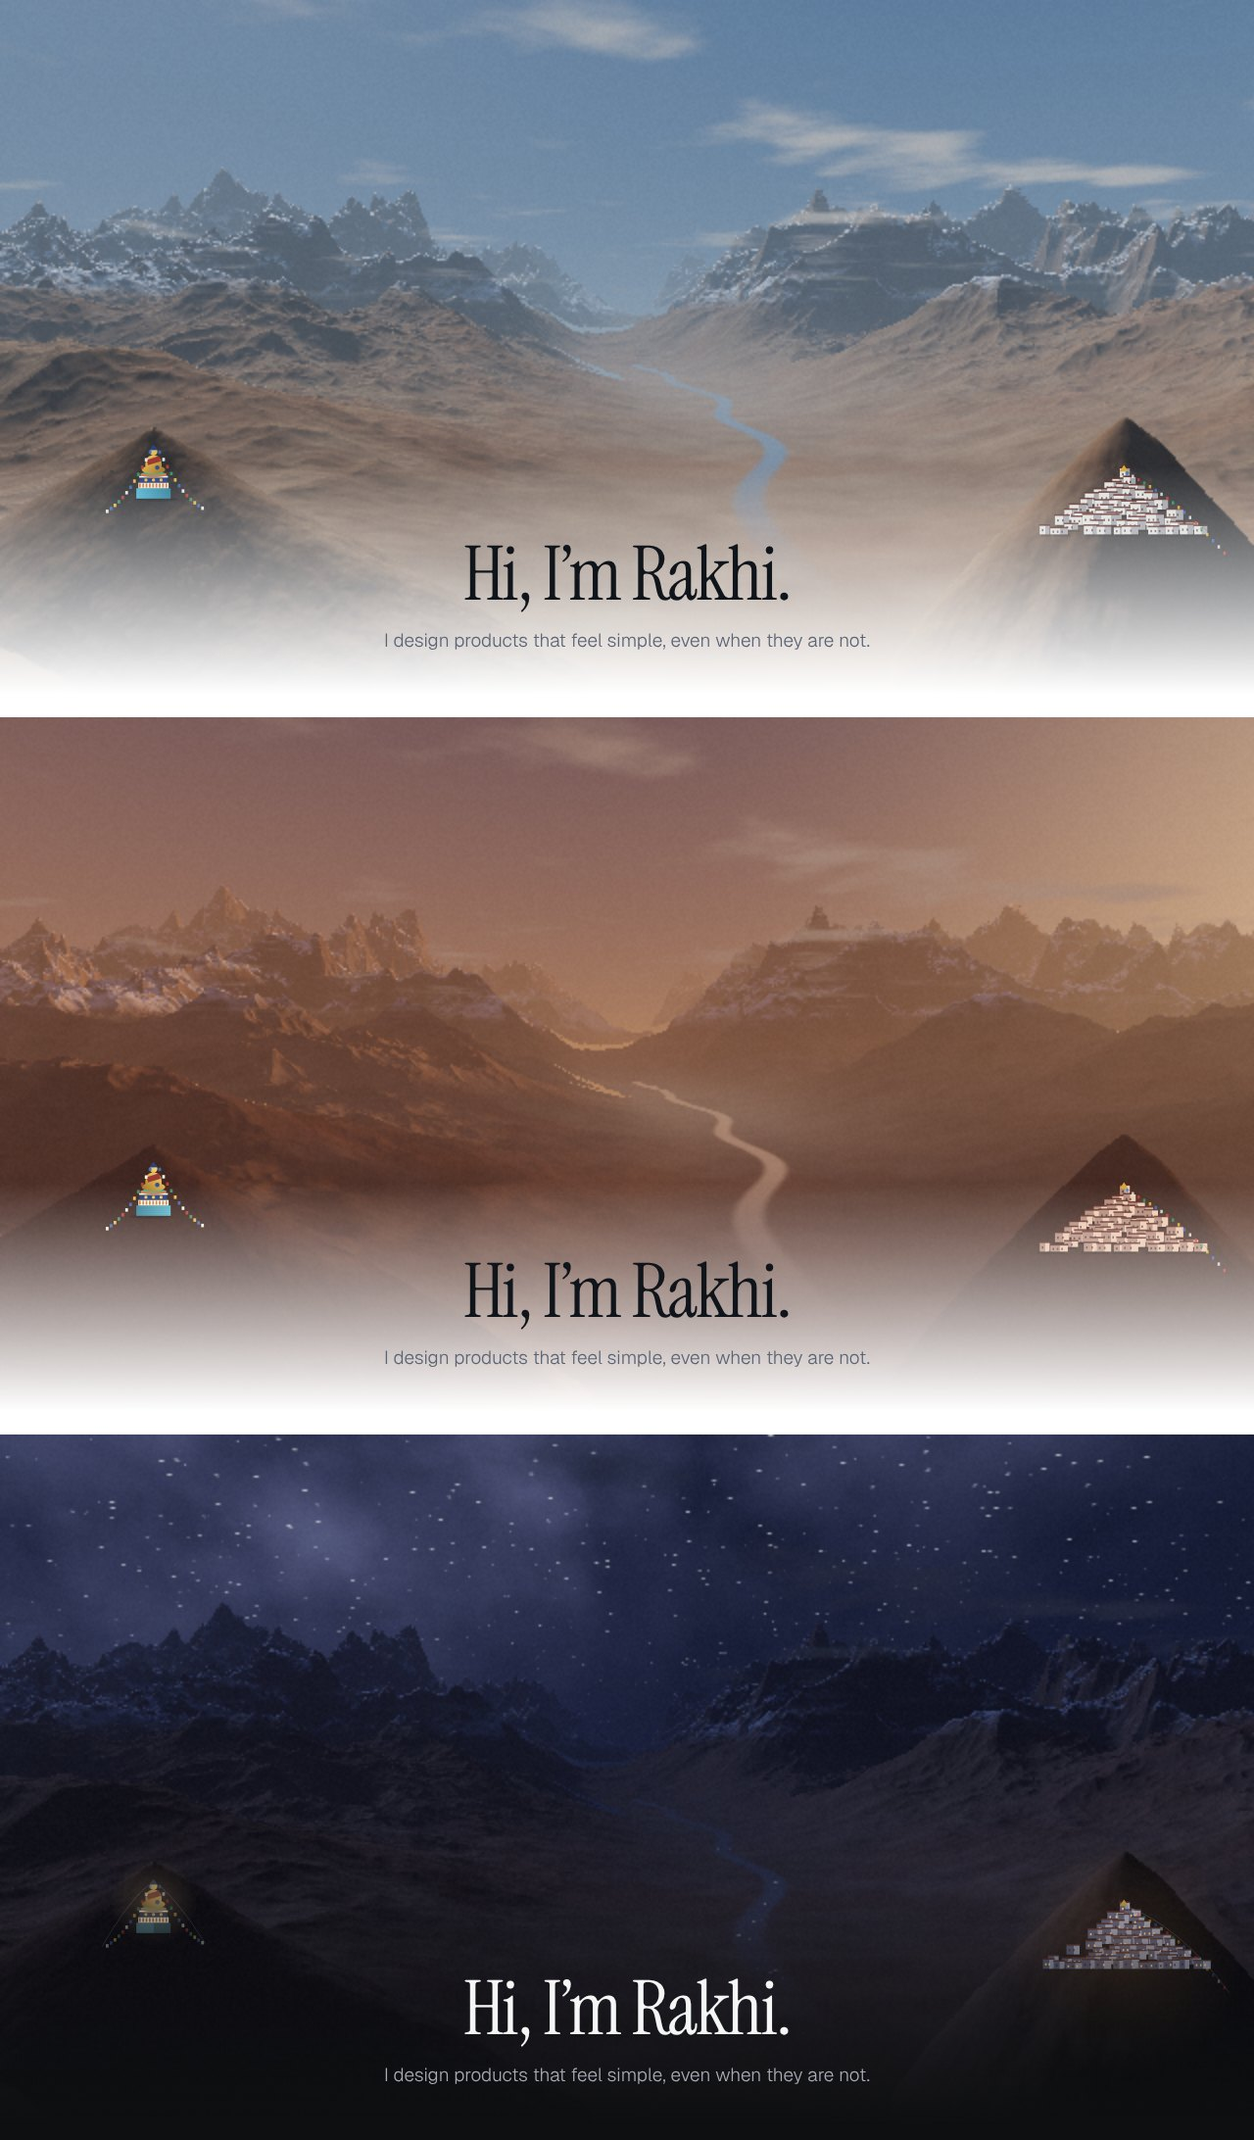
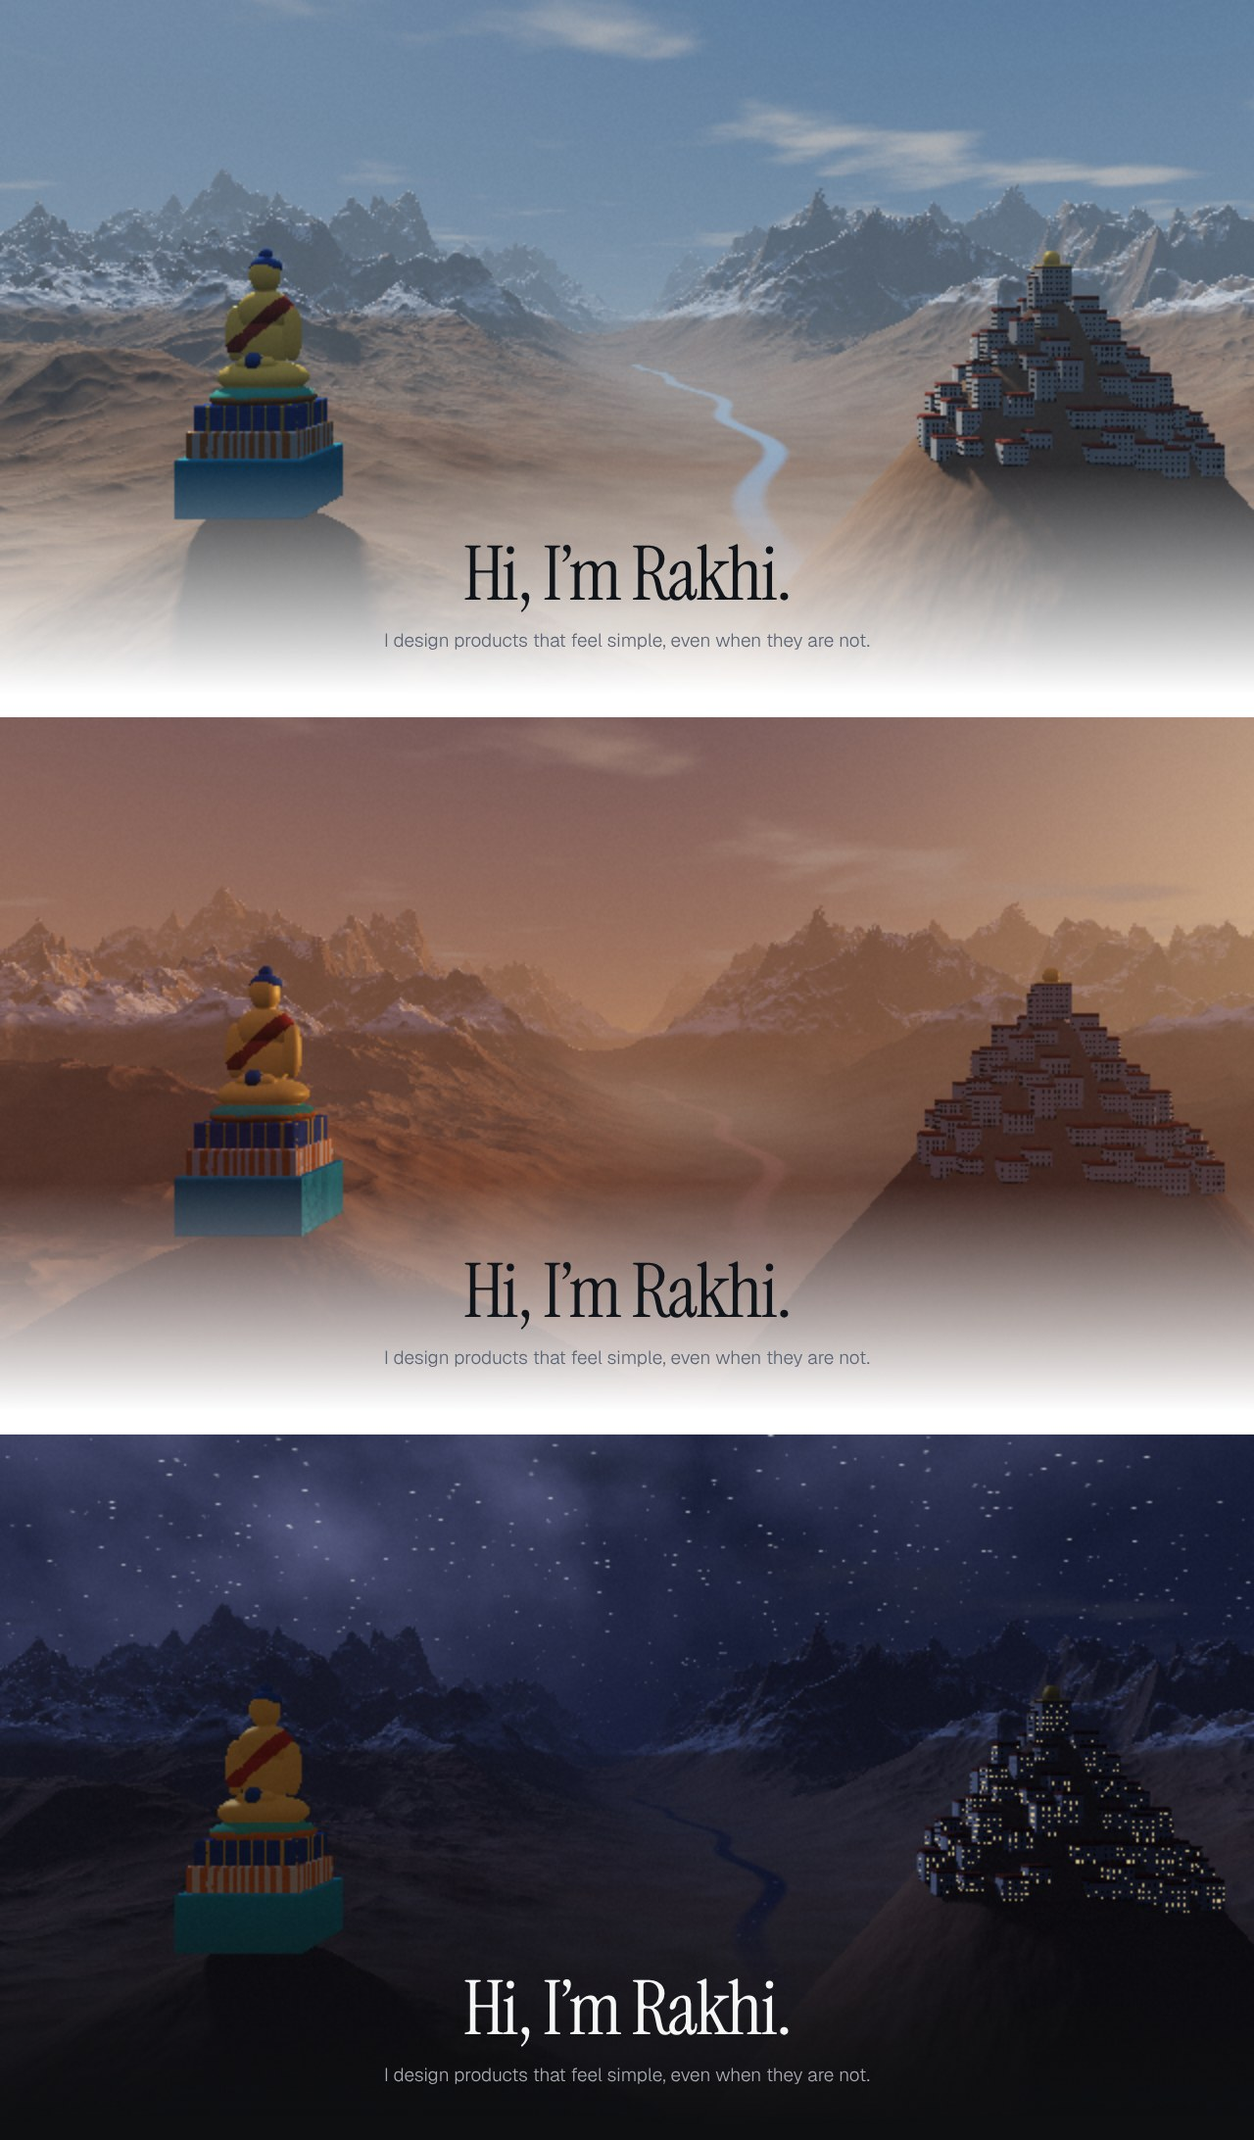
Render Key Monastery and Buddha statue in 3D within the realistic hero prototype
Claude-Session: https://claude.ai/code/session_019dQZjHybN6jsJmDi2oqjqo

diff --git a/rakhi-revamp/previews/realistic-hero-prototype.html b/rakhi-revamp/previews/realistic-hero-prototype.html
@@ -13,39 +13,83 @@ p{margin:14px auto 0;max-width:720px;font:300 19px/1.6 Geist;color:#5B6474}.nigh
 <div class="intro"><h1>Hi, I’m Rakhi.</h1><p>I design products that feel simple, even when they are not.</p></div></div>
 <script id="fs" type="x-shader">
 precision highp float;
-uniform vec2 R; uniform float T; uniform float HR; uniform float NOLM;
+uniform vec2 R; uniform float T; uniform float HR;
 float h21(vec2 p){p=fract(p*vec2(123.34,456.21));p+=dot(p,p+45.32);return fract(p.x*p.y);}
 float n2(vec2 p){vec2 i=floor(p),f=fract(p);vec2 u=f*f*(3.-2.*f);
  return mix(mix(h21(i),h21(i+vec2(1,0)),u.x),mix(h21(i+vec2(0,1)),h21(i+vec2(1,1)),u.x),u.y);}
-float fbm(vec2 p){float a=.5,s=0.;mat2 m=mat2(1.6,1.2,-1.2,1.6);for(int i=0;i<6;i++){s+=a*n2(p);p=m*p;a*=.5;}return s;}
+float fbm(vec2 p){float a=.5,s=0.;mat2 m=mat2(1.6,1.2,-1.2,1.6);for(int i=0;i<5;i++){s+=a*n2(p);p=m*p;a*=.5;}return s;}
 float ridged(vec2 p){float a=.5,s=0.,w=1.;mat2 m=mat2(1.6,1.2,-1.2,1.6);for(int i=0;i<7;i++){float n=1.-abs(n2(p)*2.-1.);n*=n;s+=n*a*w;w=clamp(n*1.6,0.,1.);p=m*p;a*=.5;}return s;}
+const vec2 MC=vec2(1.05,.2); const float MTOP=1.22;      // Key Monastery hill
+const vec3 SP=vec3(-.70,.80,-.30); const float K=.95;                       // statue base
+float coneH(vec2 p){vec2 q=p-MC;return MTOP-1.25*pow(length(q*vec2(1.,1.15)),1.05)+.04*fbm(p*7.);}
 float terrain(vec2 p){
  float rc=0.9*sin(p.y*.18)+.4*sin(p.y*.07+1.);
  float d=abs(p.x-rc);
  float valley=smoothstep(.6,5.5,d);
  float far=smoothstep(3.,26.,p.y);
- float m=ridged(p*.22+vec2(3.1,1.7));
  float h=.02+.35*fbm(p*.6)*smoothstep(.3,2.5,d);
- h+=valley*(1.2+3.6*far)*m;
- h+=far*far*2.2*ridged(p*.09+vec2(7.,2.));
- vec2 q=p-vec2(1.55,.75); float cone=NOLM>0.5?-9.:.86-1.25*pow(length(q*vec2(1.,1.25)),1.15)+.10*fbm(p*3.5)-.05; h=max(h,cone);
- vec2 l=p-vec2(-1.45,.7); float lr=NOLM>0.5?-9.:.80-.75*length(l*vec2(.8,1.3))+.05*fbm(p*5.); h=max(h,lr);
+ if(p.y>-1.){h+=valley*(1.2+3.6*far)*ridged(p*.22+vec2(3.1,1.7));h+=far*far*2.2*ridged(p*.09+vec2(7.,2.));}
+ h=max(h,coneH(p));
+ vec2 l=p-SP.xz; h=max(h,SP.y-.015-.7*pow(length(l*vec2(.8,1.2)),1.25)+.04*fbm(p*6.));
  return h;}
-vec3 sunDir(){float a=(HR-6.)/12.*3.14159; if(HR<6.||HR>=18.) a=mod(HR-18.+24.,24.)/12.*3.14159; return normalize(vec3(-cos(a)*.9,max(sin(a),.02)*.75+.02,.6));}
+float sdBox(vec3 p,vec3 b){vec3 q=abs(p)-b;return length(max(q,0.))+min(max(q.x,max(q.y,q.z)),0.);}
+float sdEll(vec3 p,vec3 r){float k0=length(p/r);float k1=length(p/(r*r));return k0*(k0-1.)/k1;}
+// returns distance; m = material id
+float monastery(vec3 p,out float m,out vec3 cellInfo){
+ m=0.;cellInfo=vec3(0.);
+ vec2 q=p.xz-MC; float rr=length(q);
+ if(rr>.5||p.y<.7||p.y>MTOP+.15) return max(rr-.46,.03);
+ float c=.055; vec2 cid=floor(p.xz/c); float best=1e3;
+ for(int j=-1;j<=1;j++)for(int i=-1;i<=1;i++){
+  vec2 id=cid+vec2(i,j); vec2 cc=(id+.5)*c; float hs=h21(id);
+  float g=coneH(cc); vec2 cq=cc-MC;
+  if(g<.82||cq.y>.06||hs<.1) continue;
+  vec3 hb=vec3(.019+.008*h21(id+7.),.018+.022*h21(id+3.),.02);
+  vec3 ctr=vec3(cc.x+(hs-.5)*.02,g+hb.y*.8,cc.y);
+  float d=sdBox(p-ctr,hb);
+  if(d<best){best=d;m=1.;cellInfo=vec3(id,ctr.y+hb.y);}
+ }
+ // golden roof at the summit
+ float top=min(sdBox(p-vec3(MC.x,MTOP+.04,MC.y-.02),vec3(.035,.035,.03)), sdEll(p-vec3(MC.x,MTOP+.09,MC.y-.02),vec3(.018,.022,.018)));
+ if(top<best){best=top;m=p.y>MTOP+.072?2.:1.;cellInfo=vec3(9.,9.,MTOP+.075);}
+ return best;}
+float statue(vec3 p,out float m){
+ vec3 q=(p-SP)/K; m=3.; float d=sdBox(q-vec3(0,.055,0),vec3(.12,.055,.12));
+ float t1=sdBox(q-vec3(0,.135,0),vec3(.105,.026,.105)); if(t1<d){d=t1;m=4.;}
+ float t2=sdBox(q-vec3(0,.185,0),vec3(.095,.025,.095)); if(t2<d){d=t2;m=5.;}
+ float lo=sdEll(q-vec3(0,.222,0),vec3(.10,.026,.10)); if(lo<d){d=lo;m=6.;}
+ float g=sdEll(q-vec3(0,.262,.0),vec3(.088,.034,.07));                       // crossed legs
+ g=min(g,sdEll(q-vec3(0,.33,.008),vec3(.047,.062,.036)));                     // belly
+ g=min(g,sdEll(q-vec3(0,.395,.01),vec3(.056,.042,.036)));                     // chest/shoulders
+ g=min(g,sdEll(vec3(abs(q.x),q.y,q.z)-vec3(.058,.35,.0),vec3(.017,.055,.02))); // arms
+ g=min(g,sdEll(q-vec3(0,.29,-.035),vec3(.04,.016,.022)));                     // hands in lap
+ g=min(g,sdEll(q-vec3(0,.44,.01),vec3(.017,.02,.017)));                       // neck
+ g=min(g,sdEll(q-vec3(0,.468,.006),vec3(.029,.034,.03)));                     // head
+ if(g<d){d=g;m=7.;}
+ float hr=sdEll(q-vec3(0,.484,.012),vec3(.03,.022,.03)); if(hr<d&&q.y>.482){d=hr;m=8.;}
+ float us=length(q-vec3(0,.51,.012))-.012; if(us<d){d=us;m=8.;}
+ float bw=length(q-vec3(0,.296,-.05))-.016; if(bw<d){d=bw;m=8.;}
+ return d*K;}
+float map(vec3 p,out float m,out vec3 ci){
+ float dt=(p.y-terrain(p.xz))*.5; m=0.;
+ float mm; vec3 c2; float dm=monastery(p,mm,c2); if(dm<dt){dt=dm;m=mm;ci=c2;}
+ float ms; float ds=statue(p,ms); if(ds<dt){dt=ds;m=ms;}
+ return dt;}
 bool isNight(){return HR<6.||HR>=18.;}
+vec3 sunDir(){float a=(HR-6.)/12.*3.14159; if(isNight()) a=mod(HR-18.+24.,24.)/12.*3.14159; return normalize(vec3(-cos(a)*.9,max(sin(a),.02)*.75+.02,.6));}
 vec3 skyCol(vec3 rd,vec3 sd){
  float e=sin(clamp((isNight()?mod(HR-18.+24.,24.):HR-6.)/12.,0.,1.)*3.14159);
  float day=isNight()?0.:smoothstep(.0,.35,e);
  float gold=isNight()?0.:(1.-smoothstep(.05,.45,e));
  vec3 zen=mix(vec3(.02,.03,.09),vec3(.10,.30,.62),day); zen=mix(zen,vec3(.16,.18,.38),gold*.6);
  vec3 hor=mix(vec3(.08,.10,.20),vec3(.62,.76,.90),day); hor=mix(hor,vec3(1.,.58,.36),gold);
- float y=clamp(rd.y,0.,1.);
- vec3 c=mix(hor,zen,pow(y,.55));
+ float y=clamp(rd.y,0.,1.); vec3 c=mix(hor,zen,pow(y,.55));
  float sdot=max(dot(rd,sd),0.);
  if(!isNight()){c+=vec3(1.,.75,.45)*pow(sdot,8.)*(.25+.6*gold)+vec3(1.,.95,.85)*pow(sdot,600.)*6.;}
  else{c+=vec3(.6,.7,1.)*pow(sdot,40.)*.25+vec3(.9,.92,1.)*smoothstep(.9994,.9997,sdot)*1.5;
-  vec2 sp=rd.xz/(rd.y+.15)*60.; float st=h21(floor(sp)); float tw=.6+.4*sin(T*2.+st*40.);float st2=h21(floor(sp*1.7)+3.);c+=vec3(.8,.85,1.)*step(.993,st2)*smoothstep(.45,0.,length(fract(sp*1.7)-.5))*.6*smoothstep(0.,.25,rd.y);
+  vec2 sp=rd.xz/(rd.y+.15)*60.; float st=h21(floor(sp)); float tw=.6+.4*sin(T*2.+st*40.);
   c+=vec3(1.)*step(.985,st)*smoothstep(.5,0.,length(fract(sp)-.5))*tw*smoothstep(0.,.25,rd.y);
+  float st2=h21(floor(sp*1.7)+3.);c+=vec3(.8,.85,1.)*step(.993,st2)*smoothstep(.45,0.,length(fract(sp*1.7)-.5))*.6*smoothstep(0.,.25,rd.y);
   float mw=exp(-pow((rd.y-.35-.25*rd.x)*5.,2.))*fbm(rd.xy*9.);c+=vec3(.32,.33,.48)*mw*.9;}
  return c;}
 void main(){
@@ -55,40 +99,55 @@ void main(){
  float e=sin(clamp((nt?mod(HR-18.+24.,24.):HR-6.)/12.,0.,1.)*3.14159);
  float gold=nt?0.:(1.-smoothstep(.05,.45,e));
  vec3 sky=skyCol(rd,sd);
- float t=.1,hit=0.;vec3 p;
- for(int i=0;i<150;i++){p=ro+rd*t;float h=terrain(p.xz);float d=p.y-h;if(d<.002*t){hit=1.;break;}t+=max(d*.45,.01);if(t>70.)break;}
+ float t=.1,hit=0.,m=0.;vec3 p,ci;
+ for(int i=0;i<220;i++){p=ro+rd*t;float d=map(p,m,ci);if(d<.0006*t){hit=1.;break;}t+=max(d,.0015);if(t>70.)break;}
  vec3 col=sky;
  if(hit>0.){
-  vec2 eps=vec2(.01*t*.1+.003,0.);
-  vec3 n=normalize(vec3(terrain(p.xz-eps.xy)-terrain(p.xz+eps.xy),2.*eps.x,terrain(p.xz-eps.yx)-terrain(p.xz+eps.yx)));
-  float slope=n.y;
-  vec3 rock=mix(vec3(.36,.24,.17),vec3(.52,.40,.30),fbm(p.xz*3.));
-  rock=mix(rock,vec3(.47,.27,.17),smoothstep(.4,.9,fbm(p.xz*.8+3.))*.5);
-  float snowLine=1.55+.4*fbm(p.xz*1.3);
-  float snow=smoothstep(snowLine-.2,snowLine+.15,p.y)*smoothstep(.45,.8,slope);
-  vec3 alb=mix(rock,vec3(.93,.95,1.),snow);
-  float river=0.; float rc=0.9*sin(p.z*.18)+.4*sin(p.z*.07+1.);
-  float rd2=abs(p.x-rc-.15*sin(p.z*1.3));
-  river=(1.-smoothstep(.05,.14,rd2))*step(p.y,.25)*smoothstep(1.,6.,p.z);
+  vec3 n; float e2=.0008+.0012*t; vec3 dum;float md;
+  n=normalize(vec3(map(p+vec3(e2,0,0),md,dum)-map(p-vec3(e2,0,0),md,dum),map(p+vec3(0,e2,0),md,dum)-map(p-vec3(0,e2,0),md,dum),map(p+vec3(0,0,e2),md,dum)-map(p-vec3(0,0,e2),md,dum)));
+  vec3 alb; float spec=0.; vec3 emis=vec3(0.);
+  if(m<.5){
+   vec3 rock=mix(vec3(.36,.24,.17),vec3(.52,.40,.30),fbm(p.xz*3.));
+   rock=mix(rock,vec3(.47,.27,.17),smoothstep(.4,.9,fbm(p.xz*.8+3.))*.5);
+   float snow=smoothstep(1.35,1.6,p.y+.3*fbm(p.xz*1.3))*smoothstep(.45,.8,n.y)*step(-.2,p.z);
+   alb=mix(rock,vec3(.93,.95,1.),snow);
+   float rc=0.9*sin(p.z*.18)+.4*sin(p.z*.07+1.);
+   float rv=(1.-smoothstep(.05,.14,abs(p.x-rc-.15*sin(p.z*1.3))))*step(p.y,.25)*smoothstep(1.,6.,p.z);
+   if(rv>0.){alb=mix(alb,skyCol(reflect(rd,vec3(0,1,0)),sd)*.9+.05,rv);}
+  } else if(m<1.5){ // monastery walls
+   alb=vec3(.92,.90,.86);
+   float topBand=smoothstep(ci.z-.008,ci.z-.005,p.y); alb=mix(alb,vec3(.42,.14,.10),topBand);
+   vec2 wp=vec2(abs(n.x)>.5?p.z:p.x,p.y)*vec2(80.,70.);
+   float win=step(.62,fract(wp.x))*step(.35,fract(wp.y))*step(fract(wp.y),.75)*step(p.y,ci.z-.01)*(1.-step(.5,n.y));
+   float lit=step(.5,h21(floor(wp)+ci.xy));
+   alb=mix(alb,vec3(.12,.08,.06),win);
+   if(nt) emis=vec3(1.,.7,.35)*win*lit*1.6;
+  } else if(m<2.5){alb=vec3(1.,.72,.25);spec=1.;}
+  else if(m<3.5){alb=vec3(.10,.62,.80);}
+  else if(m<4.5){alb=mix(vec3(.96,.93,.86),vec3(.92,.42,.15),step(.5,fract(atan(p.x-SP.x,p.z-SP.z)*6.)));}
+  else if(m<5.5){alb=mix(vec3(.12,.22,.58),vec3(.95,.72,.2),step(.82,fract(atan(p.x-SP.x,p.z-SP.z)*4.)));}
+  else if(m<6.5){alb=mix(vec3(.95,.45,.15),vec3(.18,.68,.55),step(SP.y+.226*K,p.y));}
+  else if(m<7.5){alb=vec3(1.,.70,.22);spec=1.; vec3 q=(p-SP)/K; if(q.y>.31&&q.y<.43&&abs(q.y-.37-q.x*.9)<.02) {alb=vec3(.72,.16,.12);spec=0.;}}
+  else {alb=vec3(.12,.25,.62);}
   float dif=max(dot(n,sd),0.);
-  float sh=1.;float st=.05;for(int j=0;j<24;j++){vec3 q=p+sd*st;float dh=q.y-terrain(q.xz);sh=min(sh,10.*dh/st);st+=clamp(dh,.05,.6);if(sh<0.)break;}
+  float sh=1.;float st=.02;for(int j=0;j<32;j++){vec3 q=p+n*.002+sd*st;float mm;vec3 cc;float dh=map(q,mm,cc);sh=min(sh,12.*dh/st);st+=clamp(dh,.01,.4);if(sh<0.||st>8.)break;}
   sh=clamp(sh,0.,1.);
   vec3 sunC=nt?vec3(.4,.48,.75)*.8:mix(vec3(1.,.95,.88),vec3(1.,.62,.38),gold)*1.6;
   vec3 amb=nt?vec3(.09,.11,.2):mix(vec3(.30,.38,.52),vec3(.40,.30,.40),gold);
   col=alb*(sunC*dif*sh+amb*(.5+.5*n.y));
-  if(river>0.){vec3 rf=skyCol(reflect(rd,vec3(0,1,0)),sd);col=mix(col,rf*.9+.05,river);}
+  if(spec>0.){vec3 hv=normalize(sd-rd);col+=sunC*vec3(1.,.8,.45)*pow(max(dot(n,hv),0.),40.)*sh*1.2; col+=alb*amb*.4;}
+  if(nt&&m>2.5){col+=alb*vec3(1.,.72,.4)*.22;}       // warm floodlight on the statue at night
+  col+=emis;
   float fog=1.-exp(-t*(nt?.03:.032));
   col=mix(col,mix(sky,skyCol(vec3(rd.x,.02,rd.z),sd),.7),fog);
  }
- // clouds layer
- if(rd.y>0.){vec2 cp=rd.xz/(rd.y+.05)*1.2+vec2(T*.01,0.);float cl=smoothstep(.55,.85,fbm(cp*1.3));
-  vec3 cc=nt?vec3(.12,.14,.22):mix(vec3(1.),vec3(1.,.72,.60),gold);cc*=.8+.25*max(dot(sd,vec3(0,1,0)),0.);
+ if(rd.y>0.&&hit<.5){vec2 cp=rd.xz/(rd.y+.05)*1.2+vec2(T*.01,0.);float cl=smoothstep(.55,.85,fbm(cp*1.3));
+  vec3 cc=nt?vec3(.12,.14,.22):mix(vec3(1.),vec3(1.,.72,.60),gold);cc*=.8+.25*max(sd.y,0.);
   col=mix(col,cc,cl*.75*smoothstep(0.,.15,rd.y));}
- // valley mist
- float mist=exp(-max(p.y,0.)*3.)*(hit>0.?1.:0.)*smoothstep(4.,15.,t);
+ float mist=exp(-max(p.y,0.)*3.)*hit*smoothstep(4.,15.,t);
  col=mix(col,nt?vec3(.10,.12,.2):mix(vec3(.9,.93,.98),vec3(1.,.78,.66),gold),mist*.35);
  col=1.-exp(-col*1.25); col=pow(col,vec3(.95));
- col+= (h21(gl_FragCoord.xy+T)-.5)*.025;
+ col+=(h21(gl_FragCoord.xy+T)-.5)*.02;
  gl_FragColor=vec4(col,1.);}
 </script>
 <script>
@@ -102,60 +161,7 @@ function sh(t,s){const o=gl.createShader(t);gl.shaderSource(o,s);gl.compileShade
 const pr=gl.createProgram();gl.attachShader(pr,sh(gl.VERTEX_SHADER,vs));gl.attachShader(pr,sh(gl.FRAGMENT_SHADER,document.getElementById('fs').text));gl.linkProgram(pr);gl.useProgram(pr);
 const b=gl.createBuffer();gl.bindBuffer(gl.ARRAY_BUFFER,b);gl.bufferData(gl.ARRAY_BUFFER,new Float32Array([-1,-1,3,-1,-1,3]),gl.STATIC_DRAW);
 const la=gl.getAttribLocation(pr,'a');gl.enableVertexAttribArray(la);gl.vertexAttribPointer(la,2,gl.FLOAT,false,0,0);
-size();gl.uniform2f(gl.getUniformLocation(pr,'R'),cv.width,cv.height);gl.uniform1f(gl.getUniformLocation(pr,'HR'),HR);gl.uniform1f(gl.getUniformLocation(pr,'T'),0);gl.uniform1f(gl.getUniformLocation(pr,'NOLM'),Q.get('nolm')?1:0);
+size();gl.uniform2f(gl.getUniformLocation(pr,'R'),cv.width,cv.height);gl.uniform1f(gl.getUniformLocation(pr,'HR'),HR);gl.uniform1f(gl.getUniformLocation(pr,'T'),0);
 gl.drawArrays(gl.TRIANGLES,0,3);
-if(!Q.get('nolm')){} 
-// ---- landmarks, projected with the shader's camera
-const fg=document.getElementById('fg'),x=fg.getContext('2d'),D=2;fg.width=innerWidth*D;fg.height=innerHeight*D;x.scale(D,D);
-const W=innerWidth,H=innerHeight,CAM=[0,1.15,-2],OFF=.04,F=1.25;
-const proj=(X,Y,Z)=>{const dx=X-CAM[0],dy=Y-CAM[1],dz=Z-CAM[2];return [dx/dz*F*H+W/2, H/2-(dy/dz*F-OFF)*H, F*H/dz];};
-const night=HR<6||HR>=18, gold=!night&&(HR<8||HR>16.5);
-const sunLeft=night?false:HR<12;
-let seed=5;const rnd=()=>(seed=(seed*16807)%2147483647)/2147483647;
-if(!Q.get('nolm')){
-// Key Monastery on the cone
-{const [cx,cy,k]=proj(1.55,.84,.75); const u=k/290;
- const wall=night?[176,184,210]:gold?[245,214,186]:[236,232,224];
- const shade=night?[92,98,132]:gold?[168,128,112]:[150,148,152];
- const haze=night?[30,36,62]:gold?[214,160,140]:[186,196,210];
- const mixc=(a,b,t)=>a.map((v,i)=>Math.round(v+(b[i]-v)*t));
- const rows=11;let y=cy;
- for(let ri=0;ri<rows;ri++){const rad=(4+ri*7.2)*u, bh=(9-ri*.25)*u; const n=Math.max(1,Math.round(rad*2/(13*u)));
-  for(let j=0;j<n;j++){if(ri>2&&rnd()<.18)continue;const bw=(9+rnd()*9)*u, bx=cx-rad+(j+.5)*(2*rad/n)-bw/2+(rnd()-.5)*5*u, hh=bh*(.75+rnd()*.6), yy=y-hh;
-   const hz=.18+ri*.012; const w=mixc(wall,haze,hz), sh=mixc(shade,haze,hz);
-   x.fillStyle='rgba(20,15,10,.28)';x.fillRect(bx+(sunLeft?bw*.15:-bw*.15),y-1,bw,2*u+1);
-   const g=x.createLinearGradient(bx,0,bx+bw,0);g.addColorStop(0,`rgb(${sunLeft?w:sh})`);g.addColorStop(.55,`rgb(${sunLeft?w:sh})`);g.addColorStop(.56,`rgb(${sunLeft?sh:w})`);g.addColorStop(1,`rgb(${sunLeft?sh:w})`);x.fillStyle=g;x.fillRect(bx,yy,bw,hh);
-   x.fillStyle=`rgba(${night?'70,40,40':'92,40,32'},.9)`;x.fillRect(bx-.5,yy-1.2*u,bw+1,1.4*u);
-   const nw=Math.max(1,Math.floor(bw/(5*u)));for(let wi=0;wi<nw;wi++){x.fillStyle=night&&rnd()<.5?'rgba(255,200,120,.95)':'rgba(45,32,26,.7)';x.fillRect(bx+2*u+wi*(bw-4*u)/nw,yy+hh*.4,1.4*u,2*u)}
-  } y+=bh*.62;}
- x.fillStyle=night?'#a88438':'#d9a83a';x.beginPath();x.moveTo(cx-4*u,cy-8*u);x.lineTo(cx,cy-14*u);x.lineTo(cx+4*u,cy-8*u);x.fill();
- if(night){const g=x.createRadialGradient(cx,cy+40*u,0,cx,cy+40*u,110*u);g.addColorStop(0,'rgba(255,180,100,.16)');g.addColorStop(1,'rgba(255,180,100,0)');x.fillStyle=g;x.fillRect(cx-120*u,cy-80*u,240*u,240*u);}
- x.strokeStyle=night?'rgba(220,220,240,.25)':'rgba(40,30,25,.35)';x.lineWidth=.6;x.beginPath();x.moveTo(cx+2,cy-8*u);x.quadraticCurveTo(cx+50*u,cy+10*u,cx+95*u,cy+70*u);x.stroke();
- for(let i=0;i<18;i++){const t=i/18,px=cx+2+(95*u-2)*t,py=(cy-8*u)+(78*u)*t-Math.sin(t*Math.PI)*8*u;x.fillStyle=['#2f6fd1','#f3f3f3','#d23a2c','#2f9a5c','#f2c230'][i%5];x.globalAlpha=night?.4:.8;x.fillRect(px,py,2.2*u,3*u)}x.globalAlpha=1;
-}
-// Buddha on the left ridge (top .80 at -1.45,.7)
-{const [bx,by,k]=proj(-1.45,.79,.7); const s=k/950;
- x.save();x.translate(bx,by);x.scale(s,s);x.filter=night?'saturate(.7) brightness(.85)':gold?'saturate(.85) sepia(.15)':'saturate(.82) contrast(.95)';
- x.fillStyle='rgba(0,0,0,.25)';x.beginPath();x.ellipse(sunLeft?10:-10,2,62,6,0,0,7);x.fill();
- let g=x.createLinearGradient(-50,0,50,0);g.addColorStop(0,sunLeft?'#3cc0e6':'#1c86ad');g.addColorStop(1,sunLeft?'#1c86ad':'#3cc0e6');if(night){g=x.createLinearGradient(0,0,1,0);g.addColorStop(0,'#2a5f78');g.addColorStop(1,'#1d4456');}
- x.fillStyle=g;x.fillRect(-50,-30,100,30);x.fillStyle='rgba(0,0,0,.12)';for(let i=0;i<6;i++)x.fillRect(-50,-30+i*5,100,1);
- x.fillStyle=night?'#cfc8bb':'#fbf5ea';x.fillRect(-44,-46,88,16);x.fillStyle=night?'#8e5428':'#e8742a';for(let i=0;i<9;i++)x.fillRect(-42+i*9.6,-44,5,12);
- x.fillStyle=night?'#1a2850':'#1f3f92';x.fillRect(-40,-62,80,16);x.fillStyle=night?'#a98838':'#f2c230';[-22,0,22].forEach(a=>{x.beginPath();x.arc(a,-54,4.5,0,7);x.fill()});
- x.fillStyle=night?'#cfc8bb':'#fbf5ea';x.fillRect(-42,-66,84,5);
- x.fillStyle=night?'#8a5a32':'#e8742a';x.beginPath();x.ellipse(0,-70,38,8,0,0,7);x.fill();x.fillStyle=night?'#2f7466':'#2fb59a';x.beginPath();x.ellipse(0,-73,33,4.5,0,0,7);x.fill();
- g=x.createLinearGradient(sunLeft?-30:30,-150,sunLeft?30:-30,-75);g.addColorStop(0,night?'#d2ad5a':'#ffe38a');g.addColorStop(.5,night?'#9c7728':'#e8b134');g.addColorStop(1,night?'#5e4515':'#a8740f');
- x.fillStyle=g;x.beginPath();x.ellipse(0,-84,34,12,0,0,7);x.fill();
- x.beginPath();x.moveTo(-23,-86);x.bezierCurveTo(-27,-118,-14,-126,0,-126);x.bezierCurveTo(14,-126,27,-118,23,-86);x.fill();
- x.fillStyle=night?'#6b2424':'#b3302a';x.beginPath();x.moveTo(-20,-112);x.lineTo(16,-124);x.lineTo(21,-108);x.lineTo(-16,-97);x.fill();
- x.fillStyle=g;x.beginPath();x.arc(0,-137,11.5,0,7);x.fill();
- x.fillStyle=night?'#1d2c55':'#22408f';x.beginPath();x.arc(0,-141,10.5,Math.PI,0);x.fill();x.beginPath();x.arc(0,-151,4.5,0,7);x.fill();
- x.fillStyle=night?'#22356b':'#2a4ea8';x.beginPath();x.arc(11,-90,6.5,0,7);x.fill();
- if(night){g=x.createRadialGradient(0,-90,0,0,-90,130);g.addColorStop(0,'rgba(255,200,120,.25)');g.addColorStop(1,'rgba(255,200,120,0)');x.fillStyle=g;x.fillRect(-130,-220,260,260)}
- // flags from statue down the ridge
- x.strokeStyle=night?'rgba(220,220,240,.4)':'rgba(40,30,25,.5)';x.lineWidth=1.2;
- [[1,150,30],[-1,-150,40]].forEach(([d,ex,ey])=>{x.beginPath();x.moveTo(d*14,-140);x.quadraticCurveTo(ex*.5,-90,ex,ey);x.stroke();
-  for(let i=0;i<12;i++){const t=i/12,px=d*14+(ex-d*14)*t,py=-140+(ey+140)*t-Math.sin(t*Math.PI)*-28;x.fillStyle=['#2f6fd1','#f3f3f3','#d23a2c','#2f9a5c','#f2c230'][i%5];x.globalAlpha=night?.5:.95;x.fillRect(px,py,8,10)}x.globalAlpha=1});
- x.restore();}
-}
 window.glDone=true;
 </script></body></html>
